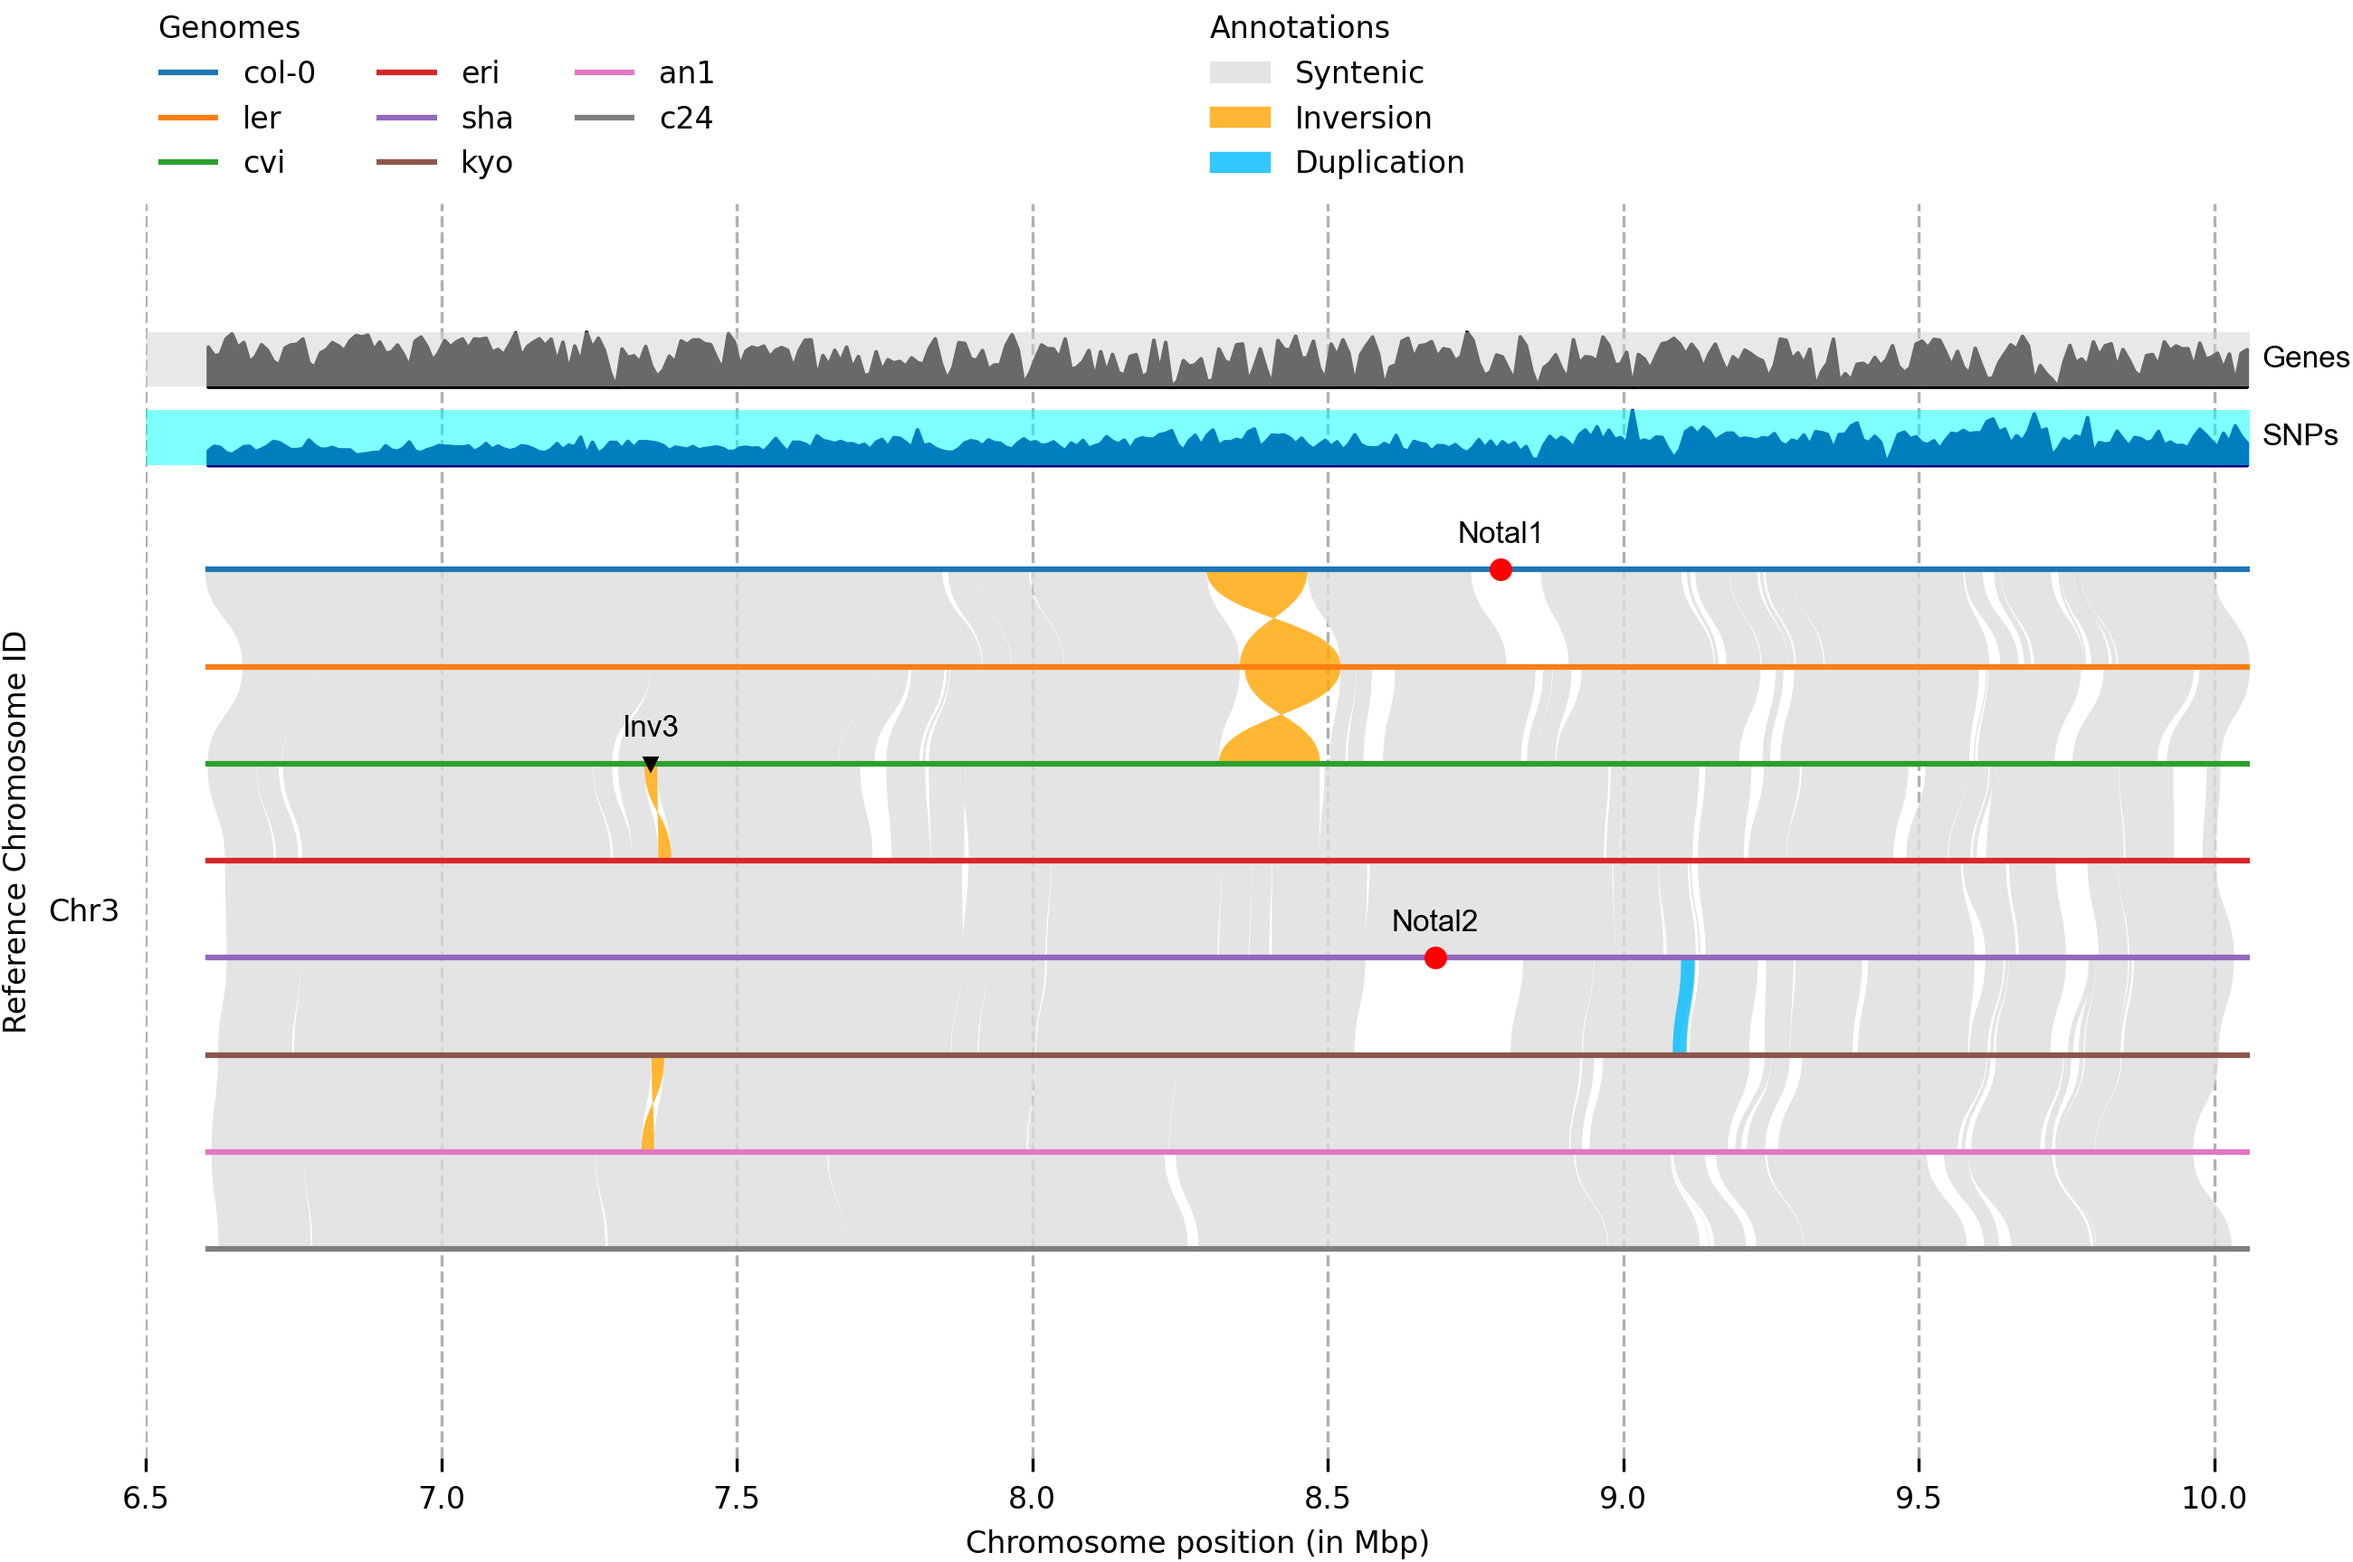
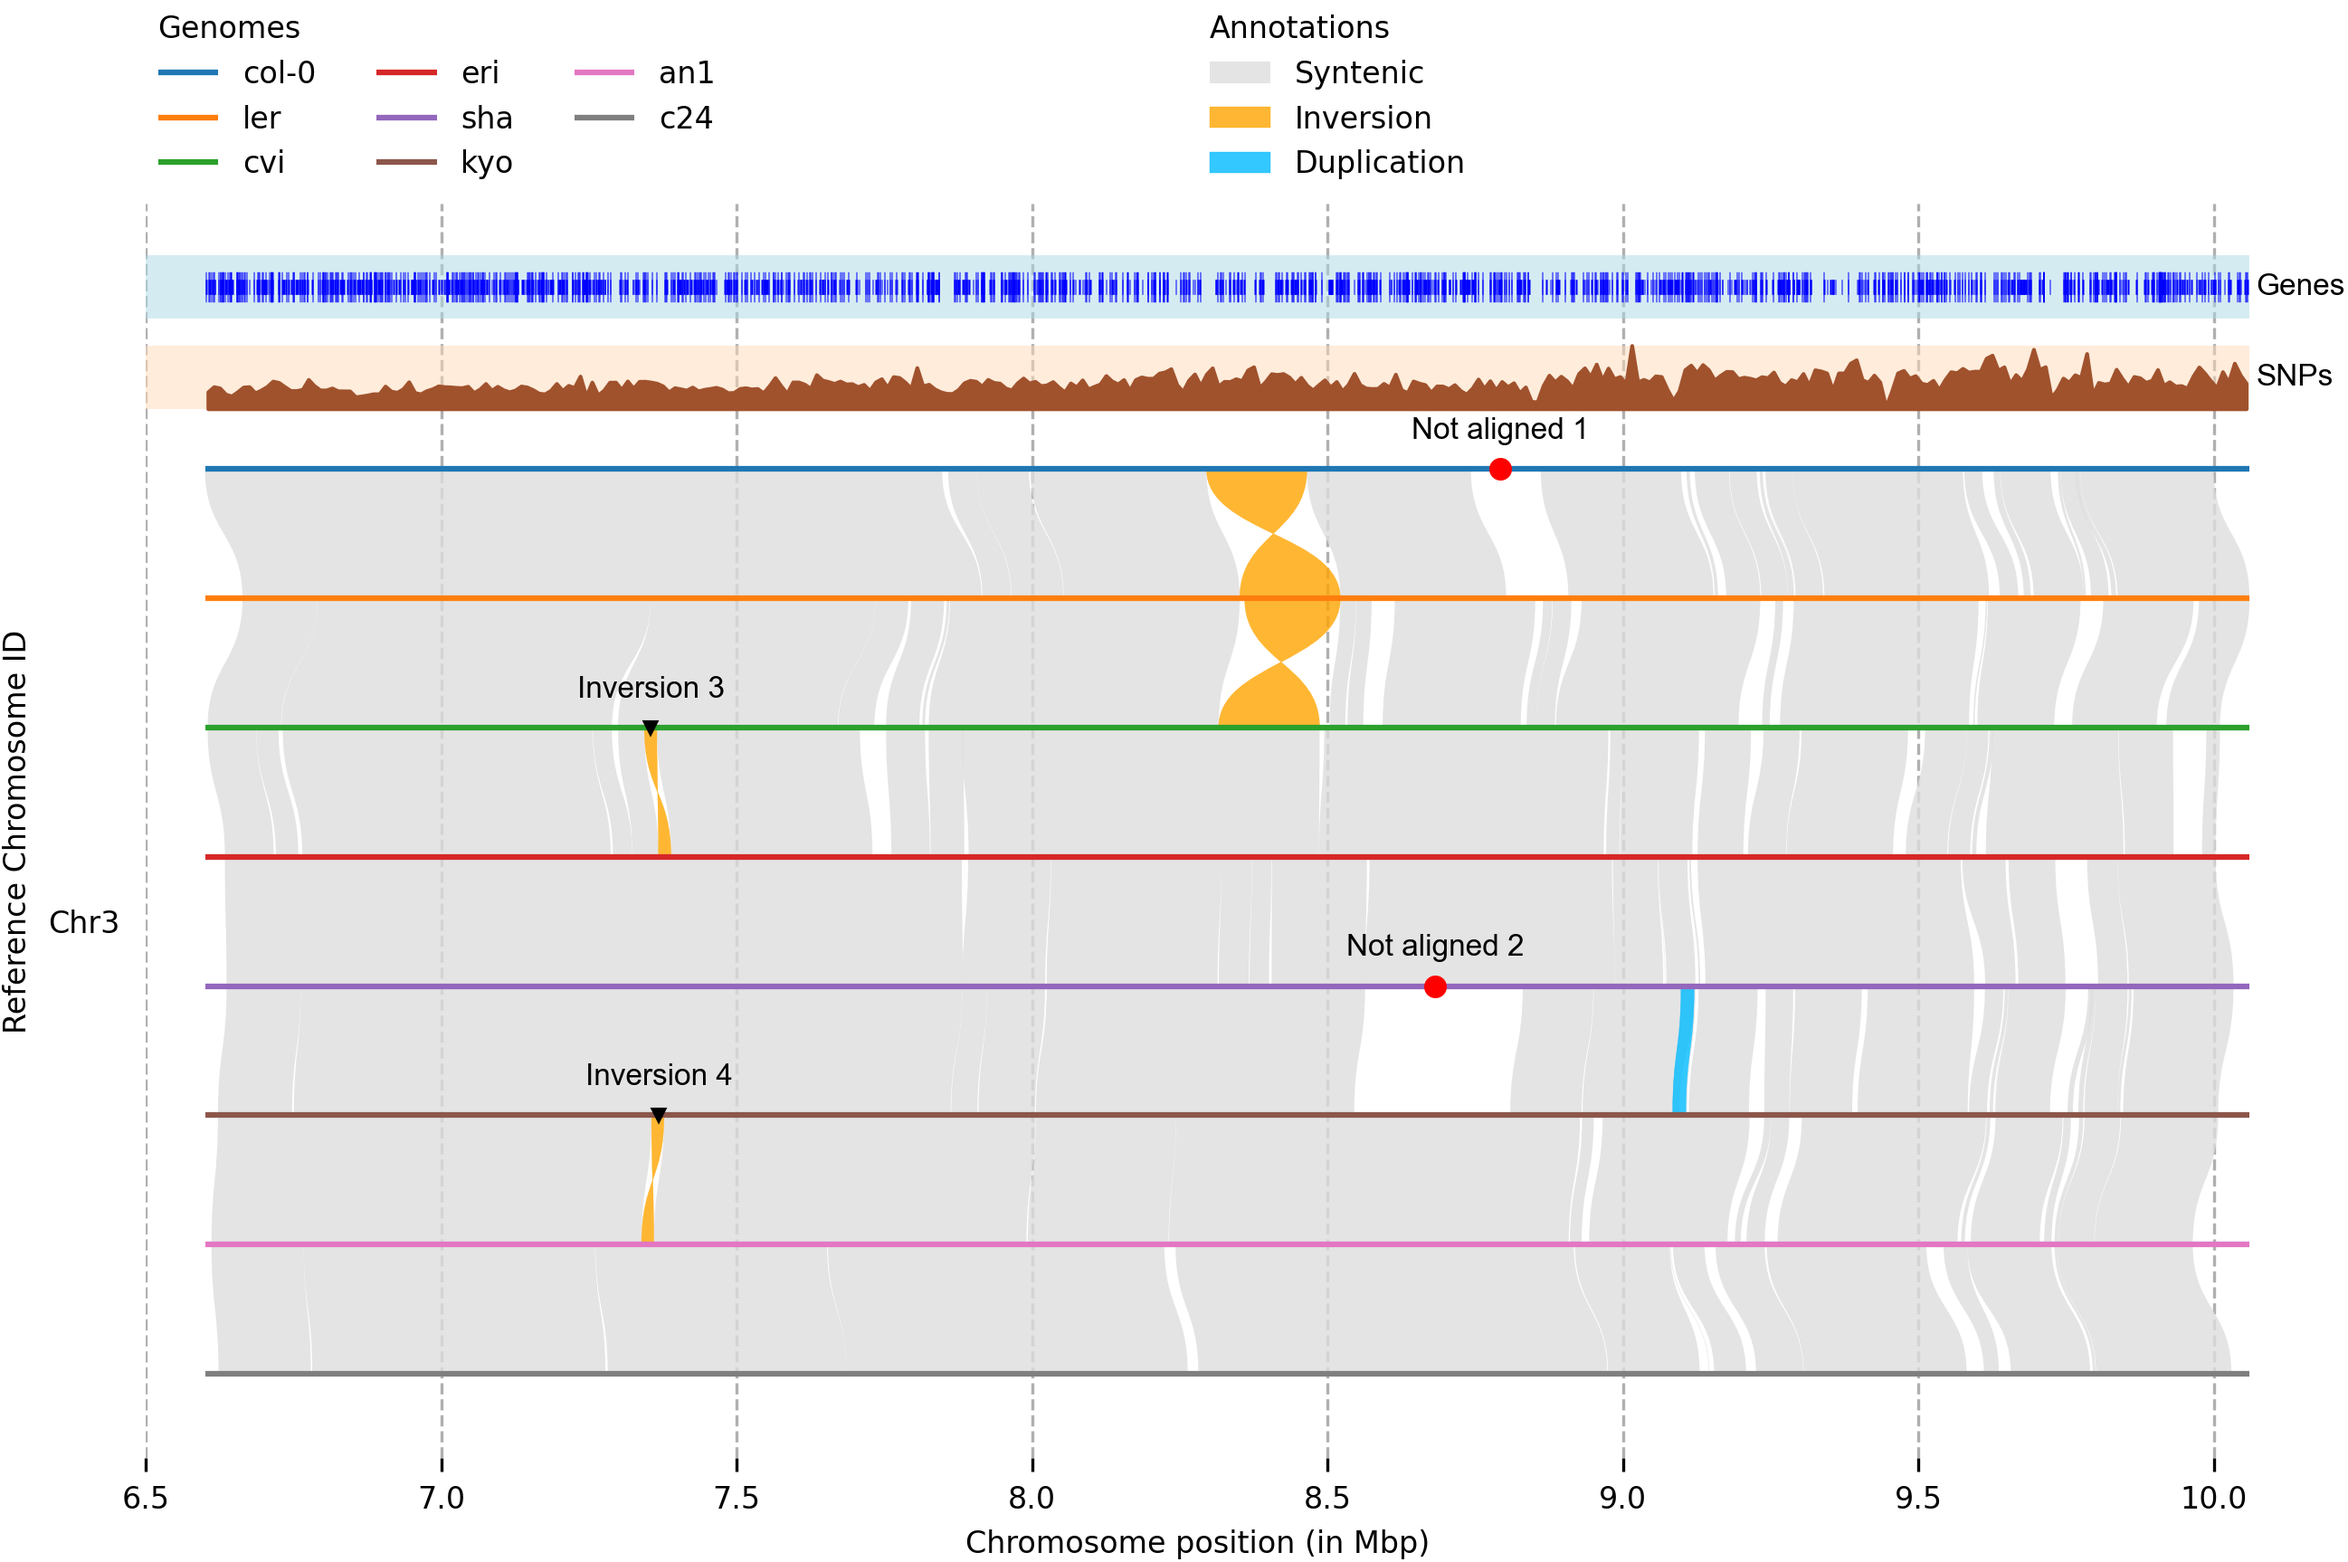
Update readme and example plot.

diff --git a/README.md b/README.md
@@ -1,7 +1,7 @@
-### The package is still in development phase. Please report any issue that you may find. Features requests are also welcome.
+### The package is still in development. Please report any issue that you may find. Features requests are also welcome.
 ## Introduction
 Plotsr generates high-quality visualisation of synteny and structural rearrangements between multiple genomes. For this it uses the genomic structural annotations between multiple chromosome-level assemblies.
-![Example](./example/ampril_col0_chr3_6600000_10000000.png)
+![example](./example/ampril_col0_chr3_6600000_10000000.png)
 
 ## Installation:
 The easiest method to install plotsr is using anaconda:
@@ -26,11 +26,11 @@ python setup.py install
 1. Chromosome-level assemblies of the genomes to be compared 
 2. Pairwise structural annotations between genomes
 
-For example, if genomes A,B, and C are to be compared, then structural annotations between A and B as well as between B and C would be required.
+For example, if genomes A, B, and C are to be visualised in this order, then structural annotations of A vs B and B vs C would be required.
 
 #### Additional inputs
-* BED/bedGraph files for adding tracks to the visualisation, like the tracks for genes and SNPs in the [Example](Example) plot above.
-* Bed file containing genomic coordinates to add markers, like the markers for Inv3, Notal1, and Notal2 in the [Example](Example) plot above.
+* GFF/BED/bedGraph files for adding tracks to the visualisation, like the tracks for genes and SNPs in the [example](Example) plot above.
+* Bed file containing genomic coordinates to add markers, like the markers for Inversion 3, Not aligned 1 in the [example](Example) plot above.
 
 ## Running example data
 Following are the steps for a typical pipeline to visualise structural annotations between genomes. For this, we would use the data available in the ```example ``` folder.
@@ -41,8 +41,8 @@ Following are the steps for a typical pipeline to visualise structural annotatio
 ```
 # Unzip genomes
 gzip -d TAIR10.filtered.fa.gz
-gzip -d an1.filtered.fa.gz
-gzip -d c24.filtered.fa.gz
+gzip -d ler.filtered.fa.gz
+gzip -d cvi.filtered.fa.gz
 
 # Align genomes
 minimap2 -ax asm5 -t 4 --eqx TAIR10.filtered.fa ler.filtered.fa \
@@ -73,7 +73,7 @@ Query start position
 Query end position
 Annotation type
 ```
-Values for annotation type should one of the following: SYN, INV, TRA, INVTR, DUP, INVDP. Here:
+Acceptable values for annotation type: SYN, INV, TRA, INVTR, DUP, INVDP. Here:
 
 | <!-- --> |  <!-- -->   |
 |----|--------|
@@ -106,6 +106,7 @@ cvi.filtered.fa	cvi	lw:1.5
 ```
 Currently, following tags are available for genomes.
 ```
+ft = File type (fa/cl for fasta/chromosome_length, default = fa); cl files must be in tsv format with chromosome name in column 1 and chromosome length in column 2
 lw = line width
 lc = line colour
 ```
@@ -127,8 +128,8 @@ TAIR10_GFF3_genes.bed	Genes	ft:bed;bw:50000;nc:black;ns:8;nf:Arial;lc:black;lw:1
 ```
 Currently, following tags are available for tracks.
 ```
+ft = File type (bed/bedgraph/gff, default = bed)
 bw = bin width (default=100000)
-ft = File type (bed/bedgraph, default = bed)
 nc = name colour
 ns = name size
 nf = name font
@@ -163,4 +164,4 @@ tp = text position
 Check [markers.txt](config/marker_point_type.txt) for the list of available markers.
 
 ## Adjusting other parameters
-Some other properties of the plot can be adjust by parsing a config file to the `--cfg` parameter. Description of properties and default values present in the example [base.cfg](./config/base.cfg) file.   
+Additional parameters of the plot can be adjusted by parsing a config file to the `--cfg` parameter. Description and default values present in the example [base.cfg](./example/base.cfg) file.   
